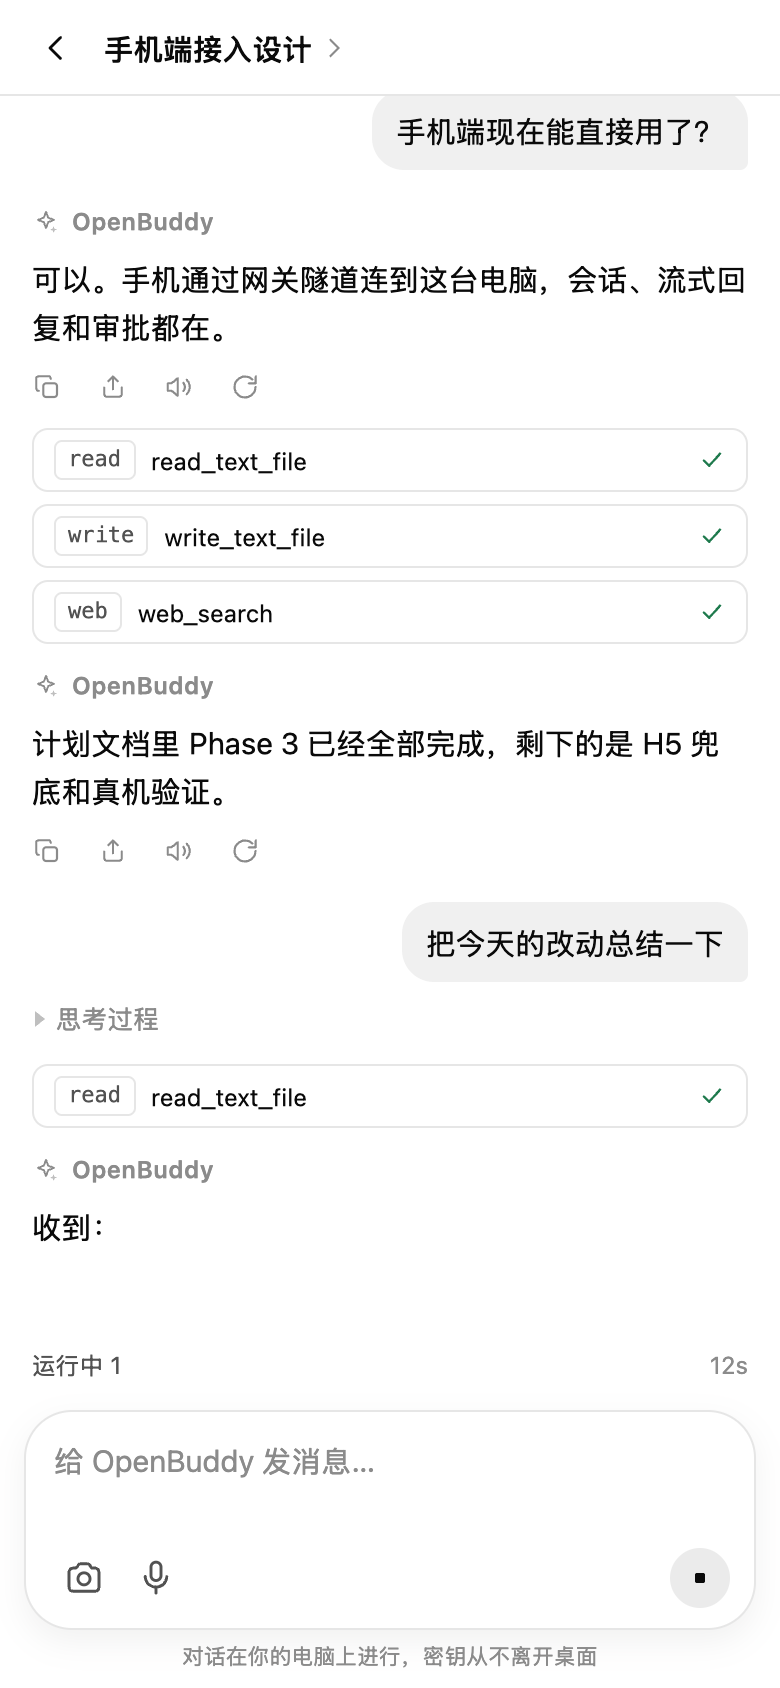
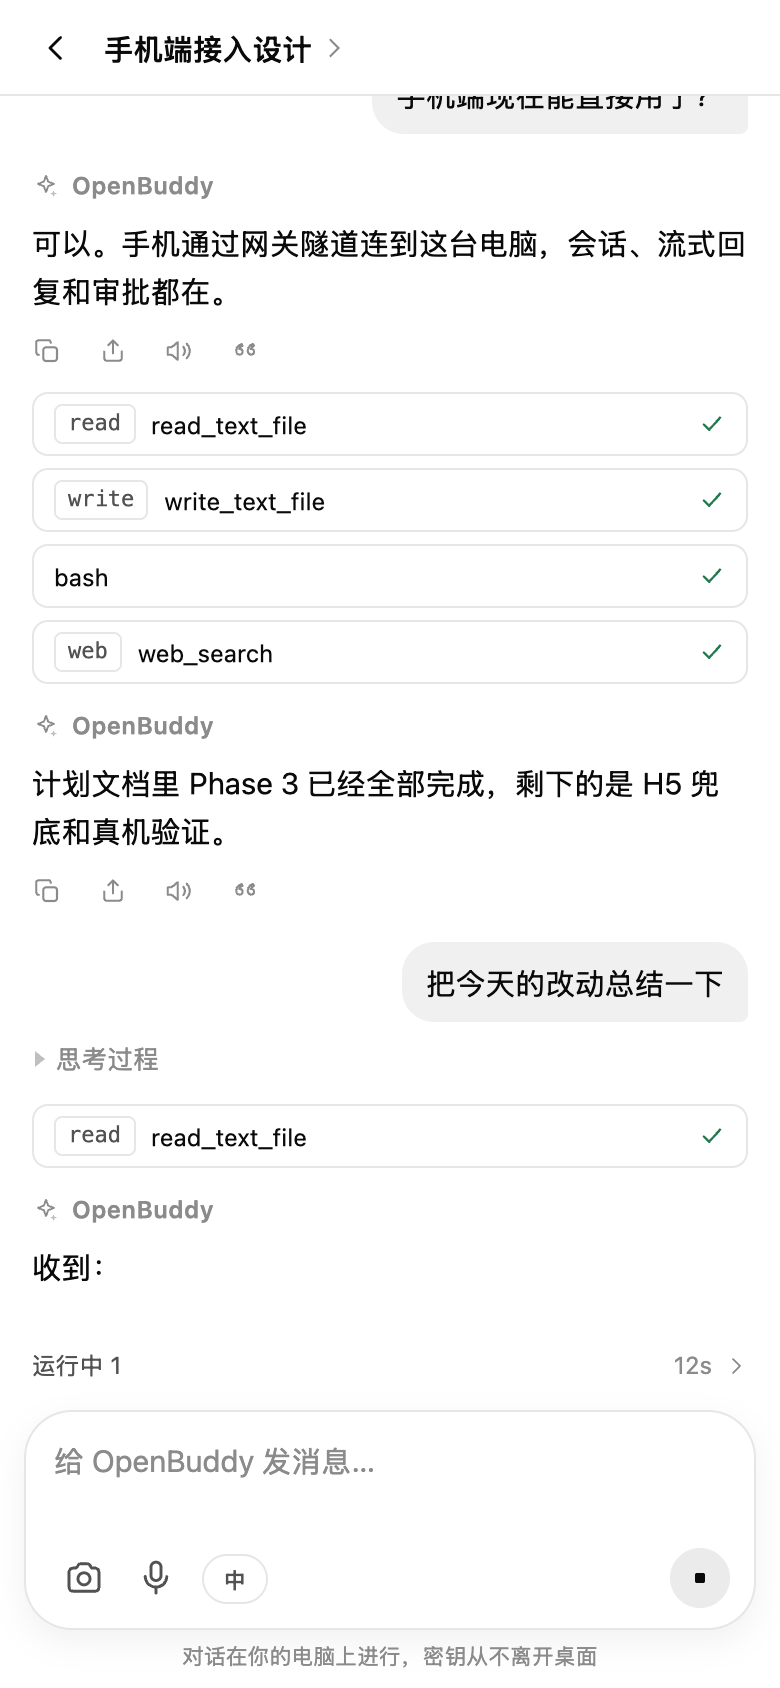
feat(mobile): 真链路复核 AI Chat UI，运行中提示补箭头（v3 §9.18）
当前构建经真网关 + 隧道 + PiBridge 在浅/深两套下验证：流式停止按钮、思考折叠、
工具卡、首段文字与运行中提示齐全；结束后回答完整、重新生成仅 1 个、跟进建议与
安全说明在位，0 页面错误。运行中提示补 accessibilityLabel 与右箭头。

diff --git a/apps/mobile/app/chat/[sessionId].tsx b/apps/mobile/app/chat/[sessionId].tsx
@@ -307,9 +307,11 @@ export default function ChatScreen() {
       {sessionTaskRows.length ? (
         <Pressable
           onPress={() => { setTasksOpen(true); void refreshTasks() }}
+          accessibilityLabel="查看运行中的任务"
           style={({ pressed }) => ({
             flexDirection: 'row',
             alignItems: 'center',
+            gap: 6,
             marginHorizontal: theme.gutter,
             paddingVertical: 7,
             opacity: pressed ? 0.6 : 1,
@@ -321,6 +323,7 @@ export default function ChatScreen() {
           <Text style={{ color: theme.textWeak, fontSize: 12 }}>
             {elapsedLabel(Math.min(...sessionTaskRows.map(task => task.startedAt ?? Date.now())))}
           </Text>
+          <ChevronRightIcon size={12} color={theme.textWeak} />
         </Pressable>
       ) : null}
 

diff --git a/docs/plan/20261117-mobile.md b/docs/plan/20261117-mobile.md
@@ -624,6 +624,25 @@ gateway `bun test` **364/364**、`tsc` 与 iOS/web `expo export` 通过。
 更新截图 `mobile-me(_dark).png`、`mobile-notifications(_dark).png`、`mobile-branches(_dark).png`、
 `mobile-approval(_dark).png`。
 
+### 9.18 真链路 AI Chat 复核（2026-11-19，第十八轮）
+
+用当前构建重跑 `preview-mobile-web`（真网关 + 真隧道 + 真 PiBridge），在浅/深两套
+390×844 下发送一条真实消息并断言：
+
+| 阶段 | 断言 | 结果 |
+|---|---|---|
+| 流式 | 停止按钮存在、思考折叠、工具卡、首段文字、运行中提示 | `{"stopButtons":1,"thinking":true,"tool":true,"firstText":true,"queueChip":true}` |
+| 结束 | 完整回答、重新生成仅 1 个、三条跟进建议、底部安全说明、4 张工具卡、停止按钮消失 | `{"answer":true,"regenerate":1,"suggestions":true,"dock":true,"toolCards":4,"stopButtons":0}` |
+| 页面错误 | 浅/深两套 | 0 |
+
+真链路也确认了「重新生成」只在最后一条回复出现。运行中提示补了
+`accessibilityLabel="查看运行中的任务"` 与右箭头，点按打开任务抽屉。
+
+**当前 v3：98/100**（A 25 + B 15 + C 20 + D 15 + E 14 + F 9）。
+第十八轮验证：手机端 **233** 单测、App E2E **114/114**、预览 UI **34/34**、
+真链路 13 屏 + AI Chat 浅/深通过、`tsc` 与 iOS/Android/web `expo export` 通过。
+更新截图 `mobile-chat-live.png`、`mobile-chat-live-dark.png`、`mobile-chat-live-streaming.png`。
+
 ---
 
 ## 10. 非功能目标
